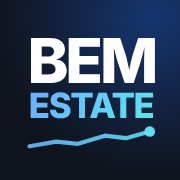
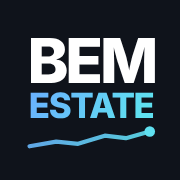
홈 화면 아이콘: 바탕의 그라데이션을 뺀다
Claude-Session: https://claude.ai/code/session_01QhvNP8f6LenitC1qAiZnxd

diff --git a/ui/shell.js b/ui/shell.js
@@ -1,7 +1,7 @@
 /* The chrome around the screens: the name, and the line at the foot. */
 import { el } from "./dom.js";
 
-export var BUILD = "2026.11.17 · r42";
+export var BUILD = "2026.11.17 · r43";
 
 /* 이름은 BEMESTATE. 앞은 글자색 그대로, 뒤는 색으로 — index.html의 기다리는
    화면에도 같은 글자가 적혀 있다. */
